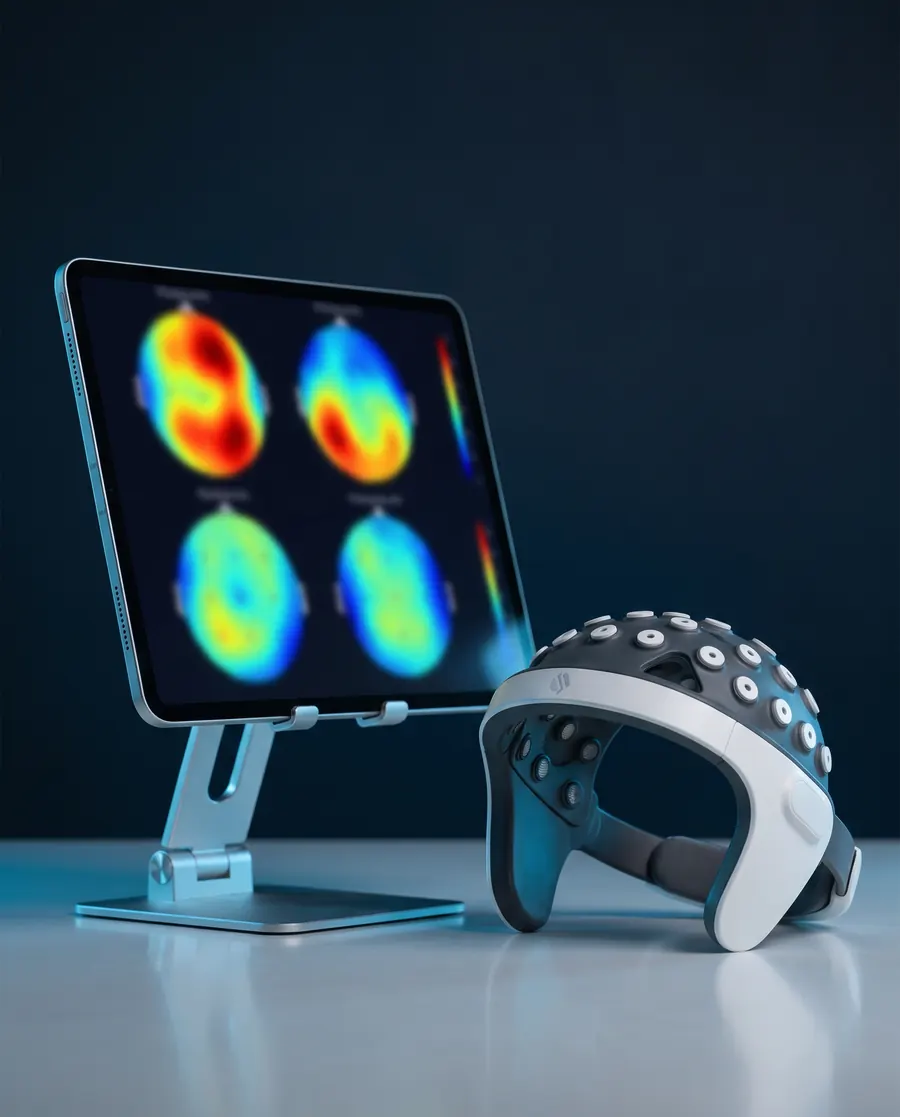
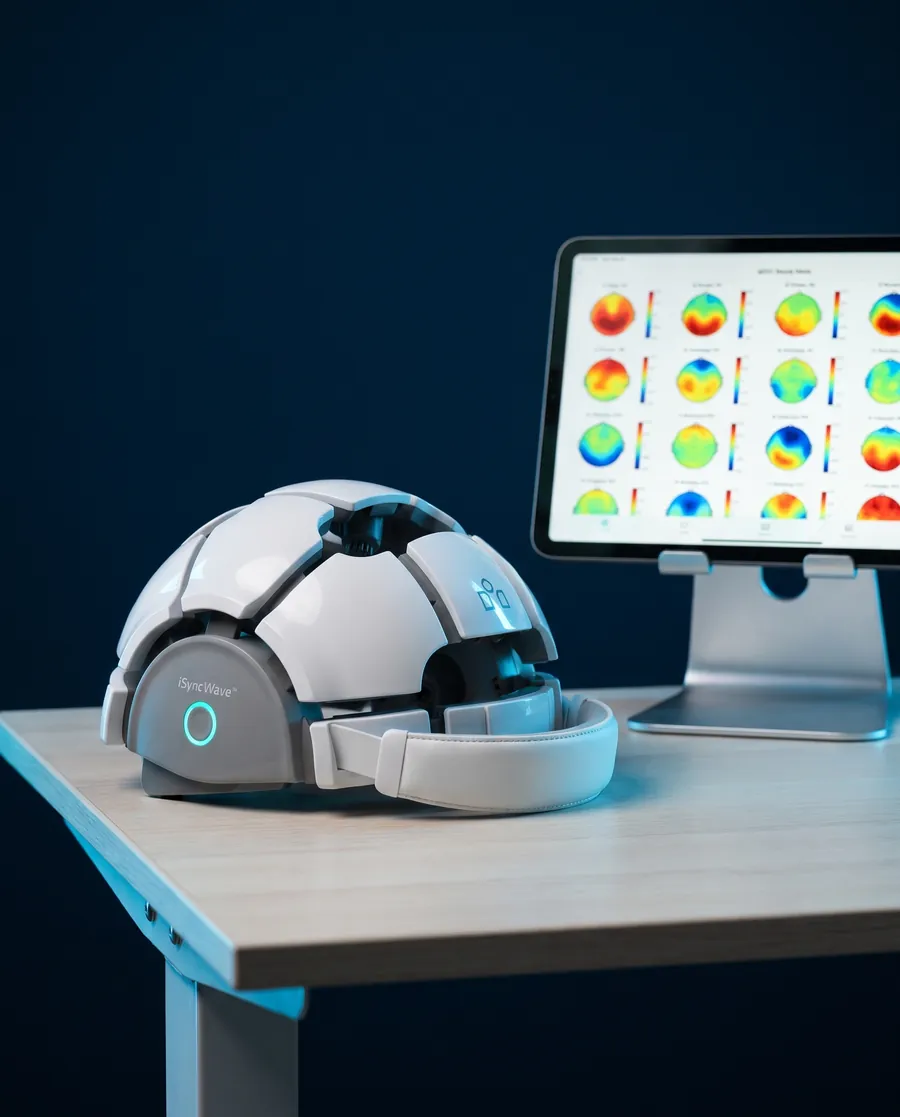
Show the iSyncWave headset and remove one review
Regenerate the qEEG image used in the hero card and the services qEEG
band from a reference photo of the clinic's iSyncWave headset, replacing
the generic headset. Remove Denisa Scripcariu's review, as she is a member
of the clinical team.

Claude-Session: https://claude.ai/code/session_01XNHeRwuhUmpRwevVQeUU9e

diff --git a/index.html b/index.html
@@ -180,13 +180,6 @@
             </article>
             <article class="review-card">
               <svg class="g-logo" aria-label="Google review" role="img"><use href="#i-google"/></svg>
-              <div class="review-meta"><span class="avatar" style="background:#c0612b">D</span><div><div class="review-name">Denisa Scripcariu</div><div class="review-sub">Google review</div></div></div>
-              <span class="stars" aria-label="5 out of 5 stars"><svg><use href="#i-star"/></svg><svg><use href="#i-star"/></svg><svg><use href="#i-star"/></svg><svg><use href="#i-star"/></svg><svg><use href="#i-star"/></svg></span>
-              <p class="review-text">I had a very positive experience with Refocus Hub. The assessment process was clear, structured, and grounded in real psychological understanding rather than quick labels. What stood out most was the focus on underlying mechanisms, not just symptoms. I would highly recommend Refocus Hub to anyone in the UK looking for professional psychological support, especially for ADHD and emotional regulation.</p>
-              <button class="read-more" type="button" hidden>Read more</button>
-            </article>
-            <article class="review-card">
-              <svg class="g-logo" aria-label="Google review" role="img"><use href="#i-google"/></svg>
               <div class="review-meta"><span class="avatar" style="background:#4a6b3a">B</span><div><div class="review-name">Ben Sadler</div><div class="review-sub">Local Guide</div></div></div>
               <span class="stars" aria-label="5 out of 5 stars"><svg><use href="#i-star"/></svg><svg><use href="#i-star"/></svg><svg><use href="#i-star"/></svg><svg><use href="#i-star"/></svg><svg><use href="#i-star"/></svg></span>
               <p class="review-text">The team is amazing really kind friendly place o struggled a bit with my anxiety but I felt very comfortable they are the first people in my whole life too diagnose me with adhd. Would reccomend too anyone. Thank you</p>
@@ -351,7 +344,7 @@
 
         <a class="qeeg-band" href="https://refocushub.co.uk/neuroscience-main-page/qeeg-brain-mapping/">
           <img class="qeeg-band-bg" src="img/neural.webp" alt="" width="2400" height="1018" loading="lazy">
-          <img class="qeeg-band-img" src="img/qeeg-tablet.webp" alt="A tablet showing colourful qEEG brain maps beside a qEEG headset" width="900" height="1117" loading="lazy">
+          <img class="qeeg-band-img" src="img/qeeg-tablet.webp" alt="An iSyncWave qEEG headset on a desk beside a tablet showing colourful brain maps" width="900" height="1117" loading="lazy">
           <div class="qeeg-band-copy">
             <span class="pill pill-light">At the centre: qEEG brain mapping</span>
             <h3>Objective data on brain activity, added to the clinical picture</h3>
